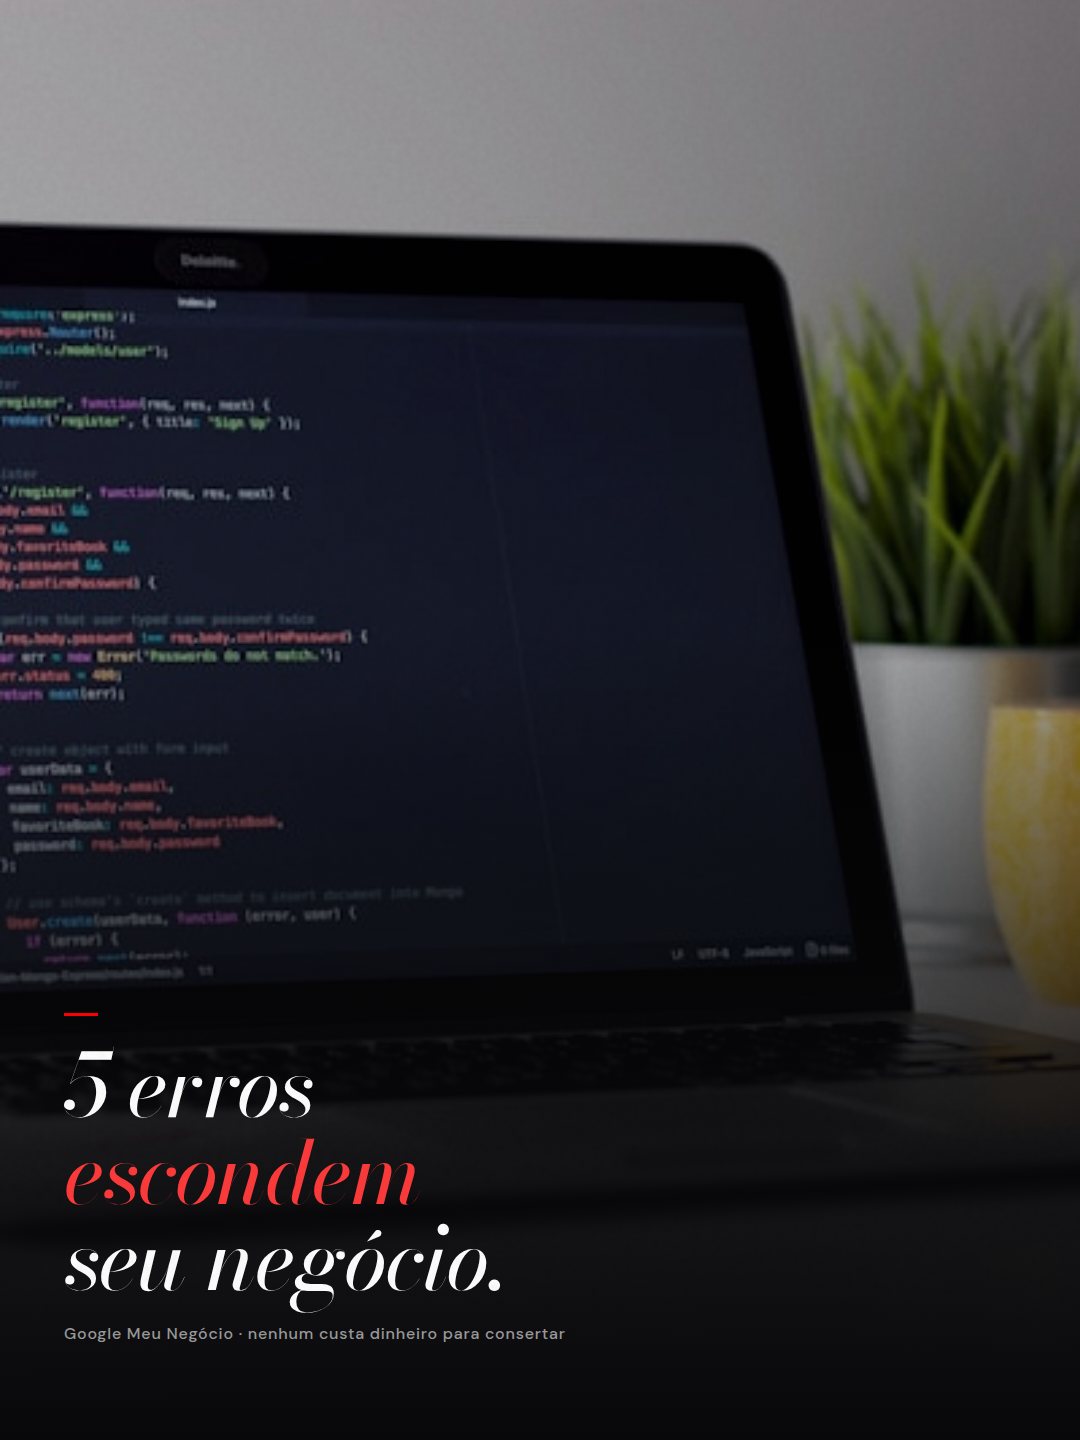
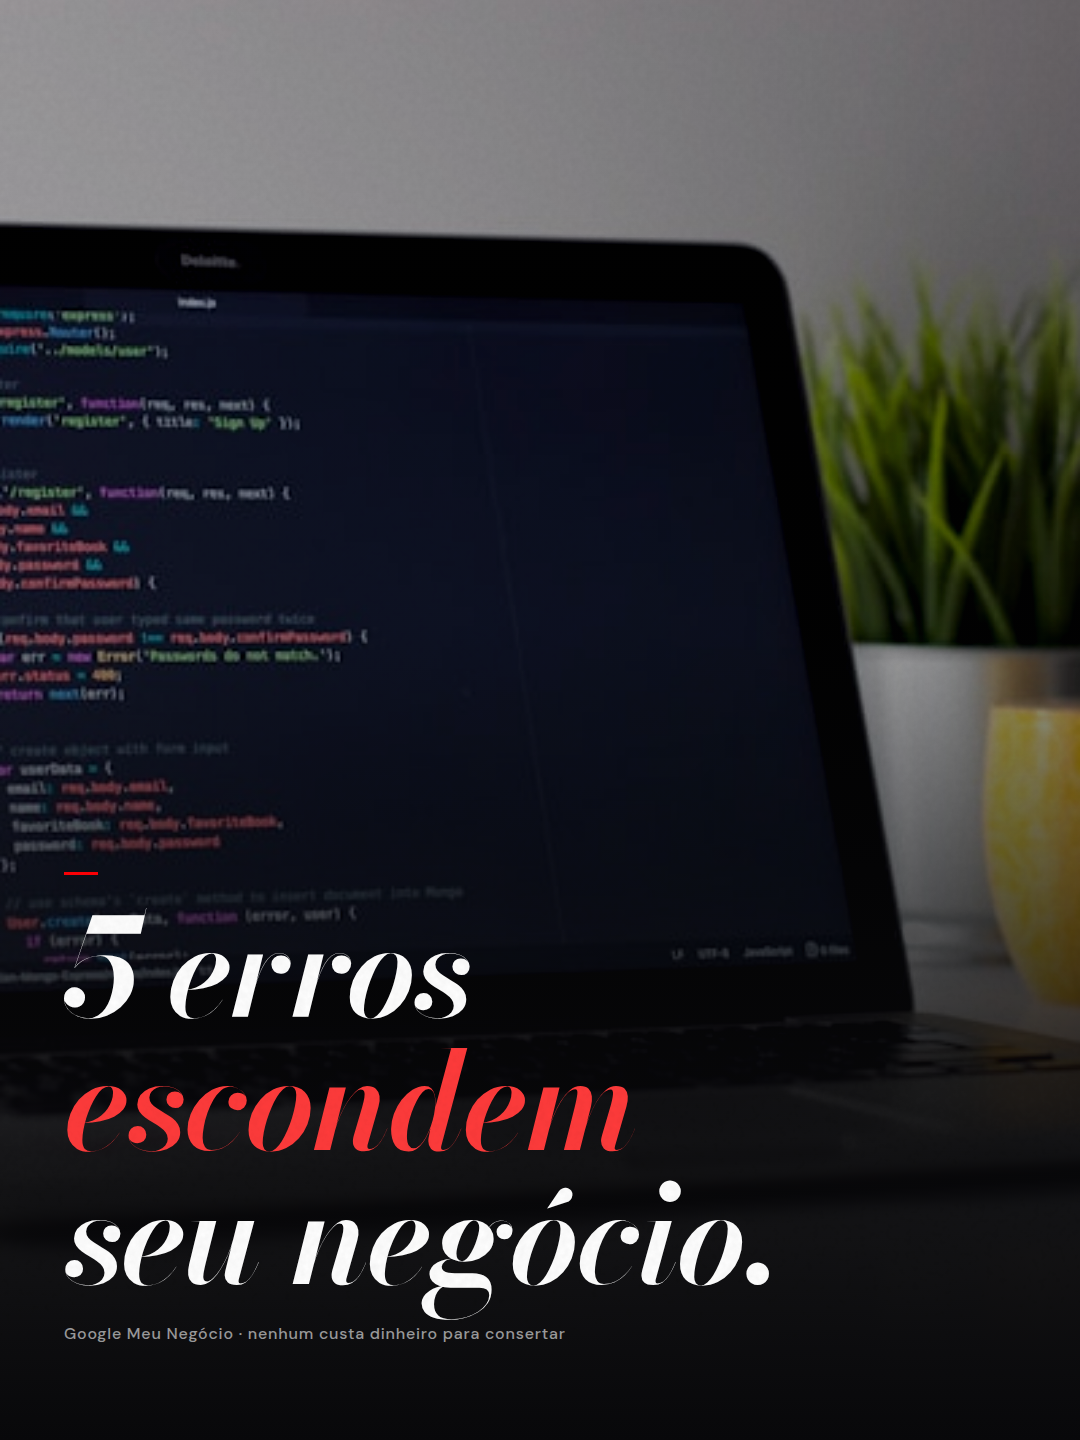
feat(feed): aumenta escala e peso — corta o comedimento, mantem a elegancia
Ela apontou: tudo comedido demais, falta impacto e ousadia, mesmo depois
da tipografia fina. Sintetizando o que ja tinha sido dito na conversa
inteira (impacto + beleza + conexao, a voz da propria conta, a energia
dos templates do CapCut) em vez de perguntar de novo:

- peso da Bodoni Moda: 460 -> 640 (ainda italico, ainda com contraste
  fino/grosso, mas com presenca de verdade)
- escala tipografica das 12 capas: +35% a +45% em cada titulo principal
- fotos com grade mais dramatica: mais contraste, mais escuras, mais
  saturadas — todos os 6 modelos com foto, nao so 4 de 6 como antes
- nao mexe na estrutura (sem logo, sem chapeu em pilula) — o problema
  nunca foi ter cortado chrome, foi ter cortado confianca junto

Changed region(s): [[0.0611, 0.625, 0.7333, 0.9062]]

diff --git a/feed-30-dias/10_funil_nao_vaza/01_capa.html b/feed-30-dias/10_funil_nao_vaza/01_capa.html
@@ -42,11 +42,11 @@ em{font-style:italic}
     .pl-foto{width:400px;background:#fff;padding:18px 18px 68px;transform:rotate(-5deg);
              box-shadow:0 35px 80px -20px rgba(0,0,0,.7);flex-shrink:0;position:relative}
     .pl-foto .fita{top:-15px;left:50%;margin-left:-41px;transform:rotate(-3deg)}
-    .pl-foto .img{width:100%;height:400px;background-size:cover;background-position:center}
+    .pl-foto .img{width:100%;height:400px;background-size:cover;background-position:center;filter:saturate(.95) contrast(1.16) brightness(.92)}
     .pl-foto .legenda{position:absolute;left:18px;bottom:18px;font-family:'Bodoni Moda',serif;
                       font-style:italic;font-size:18px;color:#222}
-    .pl-txt h1{font-family:'Bodoni Moda',serif;font-style:italic;font-weight:460;
-              font-size:64px;line-height:1.0;letter-spacing:-.015em}
+    .pl-txt h1{font-family:'Bodoni Moda',serif;font-style:italic;font-weight:640;
+              font-size:94px;line-height:1.0;letter-spacing:-.015em}
     .pl-txt h1 em{color:var(--vermelho2)}
     
 </style></head><body><div class="tela"><div class="pl">

diff --git a/feed-30-dias/02_erros_google/01_capa.html b/feed-30-dias/02_erros_google/01_capa.html
@@ -38,13 +38,13 @@ em{font-style:italic}
 .mono{font-family:'Space Mono',monospace}
 
     .hf-foto{position:absolute;inset:0;background-size:cover;background-position:center;
-             filter:saturate(.86) contrast(1.08) brightness(.8)}
+             filter:saturate(.95) contrast(1.18) brightness(.72)}
     .hf-scrim{position:absolute;inset:0;
       background:linear-gradient(180deg,rgba(8,8,10,.06) 0%,rgba(8,8,10,.16) 44%,rgba(8,8,10,.9) 80%,#08080a 100%)}
     .hf-base{position:absolute;left:64px;right:64px;bottom:96px;z-index:5}
     .hf-base .tracinho{margin-bottom:26px}
-    .hf-base h1{font-family:'Bodoni Moda',serif;font-style:italic;font-weight:460;color:#fff;
-                font-size:88px;line-height:.98;letter-spacing:-.02em}
+    .hf-base h1{font-family:'Bodoni Moda',serif;font-style:italic;font-weight:640;color:#fff;
+                font-size:136px;line-height:.98;letter-spacing:-.02em}
     .hf-base h1 em{color:var(--vermelho2)}
     .hf-base .nota{display:block;margin-top:22px;font-size:16px;letter-spacing:.05em;
                    color:rgba(255,255,255,.6);font-weight:500}

diff --git a/feed-30-dias/15_checklist_site/01_capa.html b/feed-30-dias/15_checklist_site/01_capa.html
@@ -41,10 +41,10 @@ em{font-style:italic}
         display:flex;flex-direction:column;justify-content:center}
     .cz .tracinho{margin-bottom:32px}
     .cz-pilha{display:flex;flex-direction:column}
-    .cz-pilha .a{font-family:'Bodoni Moda',serif;font-style:italic;font-weight:460;
-                font-size:96px;line-height:.96;letter-spacing:-.02em;color:rgba(255,255,255,.55)}
-    .cz-pilha .b{font-family:'Bodoni Moda',serif;font-style:italic;font-weight:460;
-                font-size:132px;line-height:.9;letter-spacing:-.03em;color:var(--vermelho2);margin-top:4px}
+    .cz-pilha .a{font-family:'Bodoni Moda',serif;font-style:italic;font-weight:640;
+                font-size:132px;line-height:.96;letter-spacing:-.02em;color:rgba(255,255,255,.55)}
+    .cz-pilha .b{font-family:'Bodoni Moda',serif;font-style:italic;font-weight:640;
+                font-size:190px;line-height:.9;letter-spacing:-.03em;color:var(--vermelho2);margin-top:4px}
     .cz-rodape{margin-top:40px;font-size:14px;letter-spacing:.16em;color:rgba(255,255,255,.45)}
     
 </style></head><body><div class="tela"><div class="cz">

diff --git a/feed-30-dias/20_convite_auditoria/01_capa.html b/feed-30-dias/20_convite_auditoria/01_capa.html
@@ -38,13 +38,13 @@ em{font-style:italic}
 .mono{font-family:'Space Mono',monospace}
 
     .hf-foto{position:absolute;inset:0;background-size:cover;background-position:center;
-             filter:saturate(.86) contrast(1.08) brightness(.8)}
+             filter:saturate(.95) contrast(1.18) brightness(.72)}
     .hf-scrim{position:absolute;inset:0;
       background:linear-gradient(180deg,rgba(8,8,10,.06) 0%,rgba(8,8,10,.16) 44%,rgba(8,8,10,.9) 80%,#08080a 100%)}
     .hf-base{position:absolute;left:64px;right:64px;bottom:96px;z-index:5}
     .hf-base .tracinho{margin-bottom:26px}
-    .hf-base h1{font-family:'Bodoni Moda',serif;font-style:italic;font-weight:460;color:#fff;
-                font-size:88px;line-height:.98;letter-spacing:-.02em}
+    .hf-base h1{font-family:'Bodoni Moda',serif;font-style:italic;font-weight:640;color:#fff;
+                font-size:136px;line-height:.98;letter-spacing:-.02em}
     .hf-base h1 em{color:var(--vermelho2)}
     .hf-base .nota{display:block;margin-top:22px;font-size:16px;letter-spacing:.05em;
                    color:rgba(255,255,255,.6);font-weight:500}

diff --git a/feed-30-dias/17_primeiro_mes/01_capa.html b/feed-30-dias/17_primeiro_mes/01_capa.html
@@ -39,12 +39,12 @@ em{font-style:italic}
 
     .mt{position:absolute;inset:0;display:flex;flex-direction:row}
     .mt-foto{width:50%;height:100%;background-size:cover;background-position:center;
-             filter:saturate(.88) contrast(1.05)}
+             filter:saturate(.94) contrast(1.16) brightness(.88)}
     .mt-txt{width:50%;height:100%;background:var(--tinta);color:#fff;padding:64px 52px;
             display:flex;flex-direction:column;justify-content:flex-end}
     .mt-txt .tracinho{margin-bottom:24px}
-    .mt-txt h1{font-family:'Bodoni Moda',serif;font-style:italic;font-weight:460;
-               font-size:52px;line-height:1.06;letter-spacing:-.015em;margin-bottom:18px}
+    .mt-txt h1{font-family:'Bodoni Moda',serif;font-style:italic;font-weight:640;
+               font-size:70px;line-height:1.06;letter-spacing:-.015em;margin-bottom:18px}
     .mt-txt h1 em{color:var(--vermelho2)}
     .mt-txt .nota{display:block;font-size:16px;color:rgba(255,255,255,.6)}
     .mt-botao{display:inline-flex;align-self:flex-start;margin-top:28px;padding:14px 22px;

diff --git a/feed-30-dias/04_case_wolfs/01_capa.html b/feed-30-dias/04_case_wolfs/01_capa.html
@@ -39,11 +39,11 @@ em{font-style:italic}
 
     .dg{position:absolute;inset:0;background:var(--tinta)}
     .dg-foto{position:absolute;inset:0;background-size:cover;background-position:center;
-             clip-path:polygon(0 0,100% 0,100% 42%,0 62%);filter:saturate(.82) contrast(1.1) brightness(.92)}
+             clip-path:polygon(0 0,100% 0,100% 42%,0 62%);filter:saturate(.9) contrast(1.2) brightness(.8)}
     .dg-corpo{position:absolute;left:64px;right:64px;bottom:88px;z-index:5}
     .dg-corpo .tracinho{margin-bottom:24px}
-    .dg-corpo h1{font-family:'Bodoni Moda',serif;font-style:italic;font-weight:460;color:#fff;
-                 font-size:68px;line-height:1.02;letter-spacing:-.015em;max-width:860px}
+    .dg-corpo h1{font-family:'Bodoni Moda',serif;font-style:italic;font-weight:640;color:#fff;
+                 font-size:100px;line-height:1.02;letter-spacing:-.015em;max-width:860px}
     .dg-corpo h1 em{color:var(--vermelho2)}
     .dg-corpo .nota{display:block;margin-top:18px;font-size:15px;color:rgba(255,255,255,.55)}
     

diff --git a/feed-30-dias/07_ia_atendimento/01_capa.html b/feed-30-dias/07_ia_atendimento/01_capa.html
@@ -39,11 +39,11 @@ em{font-style:italic}
 
     .md{position:absolute;inset:0;background:var(--tinta);color:#fff;padding:64px;
         display:flex;align-items:center;gap:56px}
-    .md-foto{width:400px;height:400px;border-radius:50%;background-size:cover;background-position:center;
+    .md-foto{width:400px;height:400px;border-radius:50%;background-size:cover;background-position:center;filter:saturate(.95) contrast(1.16) brightness(.9);
              flex-shrink:0;box-shadow:0 0 0 1px var(--vermelho),0 30px 70px -20px rgba(0,0,0,.7)}
     .md-txt .tracinho{margin-bottom:24px}
-    .md-txt h1{font-family:'Bodoni Moda',serif;font-style:italic;font-weight:460;
-               font-size:64px;line-height:1.02;letter-spacing:-.015em}
+    .md-txt h1{font-family:'Bodoni Moda',serif;font-style:italic;font-weight:640;
+               font-size:96px;line-height:1.02;letter-spacing:-.015em}
     .md-txt h1 em{color:var(--vermelho2)}
     .md-txt .nota{display:block;margin-top:20px;font-size:16px;color:rgba(255,255,255,.6)}
     

diff --git a/feed-30-dias/13_bastidor/01_capa.html b/feed-30-dias/13_bastidor/01_capa.html
@@ -39,11 +39,11 @@ em{font-style:italic}
 
     .md{position:absolute;inset:0;background:var(--tinta);color:#fff;padding:64px;
         display:flex;align-items:center;gap:56px}
-    .md-foto{width:400px;height:400px;border-radius:50%;background-size:cover;background-position:center;
+    .md-foto{width:400px;height:400px;border-radius:50%;background-size:cover;background-position:center;filter:saturate(.95) contrast(1.16) brightness(.9);
              flex-shrink:0;box-shadow:0 0 0 1px var(--vermelho),0 30px 70px -20px rgba(0,0,0,.7)}
     .md-txt .tracinho{margin-bottom:24px}
-    .md-txt h1{font-family:'Bodoni Moda',serif;font-style:italic;font-weight:460;
-               font-size:64px;line-height:1.02;letter-spacing:-.015em}
+    .md-txt h1{font-family:'Bodoni Moda',serif;font-style:italic;font-weight:640;
+               font-size:96px;line-height:1.02;letter-spacing:-.015em}
     .md-txt h1 em{color:var(--vermelho2)}
     .md-txt .nota{display:block;margin-top:20px;font-size:16px;color:rgba(255,255,255,.6)}
     

diff --git a/feed-30-dias/19_gmn_hoje/01_capa.html b/feed-30-dias/19_gmn_hoje/01_capa.html
@@ -42,10 +42,10 @@ em{font-style:italic}
     .jn-moldura{margin-top:6px;padding:20px;border:1px solid rgba(255,255,255,.22);flex:1;width:100%;
                display:flex;align-items:center;justify-content:center}
     .jn-foto{width:100%;height:100%;background-size:cover;background-position:center;
-             filter:saturate(.9) contrast(1.05)}
+             filter:saturate(.95) contrast(1.15) brightness(.9)}
     .jn-legenda{margin-top:32px;text-align:center}
-    .jn-legenda h1{font-family:'Bodoni Moda',serif;font-style:italic;font-weight:460;
-                  font-size:44px;line-height:1.1;letter-spacing:-.01em}
+    .jn-legenda h1{font-family:'Bodoni Moda',serif;font-style:italic;font-weight:640;
+                  font-size:64px;line-height:1.1;letter-spacing:-.01em}
     .jn-legenda h1 em{color:var(--vermelho2)}
     .jn-legenda .nota{display:block;margin-top:14px;font-size:15px;color:rgba(255,255,255,.55)}
     

diff --git a/feed-30-dias/22_o_que_nao_fazemos/01_capa.html b/feed-30-dias/22_o_que_nao_fazemos/01_capa.html
@@ -41,8 +41,8 @@ em{font-style:italic}
     .fc-carimbo{position:absolute;top:60px;right:64px;border:2px solid var(--vermelho);
                color:var(--vermelho);padding:8px 14px;font-family:'Space Mono',monospace;
                font-size:14px;font-weight:700;transform:rotate(-3deg)}
-    .fc h1{margin-top:56px;font-family:'Bodoni Moda',serif;font-style:italic;font-weight:460;
-          font-size:70px;line-height:1.04;letter-spacing:-.015em;max-width:880px}
+    .fc h1{margin-top:56px;font-family:'Bodoni Moda',serif;font-style:italic;font-weight:640;
+          font-size:92px;line-height:1.04;letter-spacing:-.015em;max-width:880px}
     .fc h1 em{color:var(--vermelho)}
     .fc-campos{margin-top:52px;border-top:2px solid var(--tinta);font-family:'Space Mono',monospace}
     .fc-campo{display:flex;justify-content:space-between;align-items:baseline;gap:24px;

diff --git a/feed-30-dias/09_mito_ia/01_capa.html b/feed-30-dias/09_mito_ia/01_capa.html
@@ -41,8 +41,8 @@ em{font-style:italic}
         display:flex;flex-direction:column;align-items:center;justify-content:center}
     .sl-anel{width:420px;height:420px;border-radius:50%;border:1px solid var(--vermelho);
              display:flex;align-items:center;justify-content:center}
-    .sl-palavra{font-family:'Bodoni Moda',serif;font-style:italic;font-weight:460;
-                font-size:64px;text-align:center;letter-spacing:-.015em;max-width:300px;line-height:1.0}
+    .sl-palavra{font-family:'Bodoni Moda',serif;font-style:italic;font-weight:640;
+                font-size:88px;text-align:center;letter-spacing:-.015em;max-width:300px;line-height:1.0}
     .sl-palavra em{color:var(--vermelho)}
     .sl-legenda{margin-top:32px;font-size:12px;letter-spacing:.34em;text-transform:uppercase;
                font-weight:700;color:var(--vermelho)}

diff --git a/feed-30-dias/03_silencio/01_capa.html b/feed-30-dias/03_silencio/01_capa.html
@@ -40,8 +40,8 @@ em{font-style:italic}
     .mr{position:absolute;inset:0;background:#111111;color:#fff;
         display:flex;flex-direction:column;justify-content:center;padding:0 64px}
     .mr .tracinho{margin-bottom:36px}
-    .mr h1{font-family:'Bodoni Moda',serif;font-style:italic;font-weight:460;
-           font-size:92px;line-height:1.06;letter-spacing:-.015em;max-width:900px}
+    .mr h1{font-family:'Bodoni Moda',serif;font-style:italic;font-weight:640;
+           font-size:148px;line-height:1.06;letter-spacing:-.015em;max-width:900px}
     .mr h1 em{color:var(--vermelho)}
     .mr .sub{margin-top:30px;font-size:14px;letter-spacing:.3em;text-transform:uppercase;
              font-weight:600;opacity:.45}
